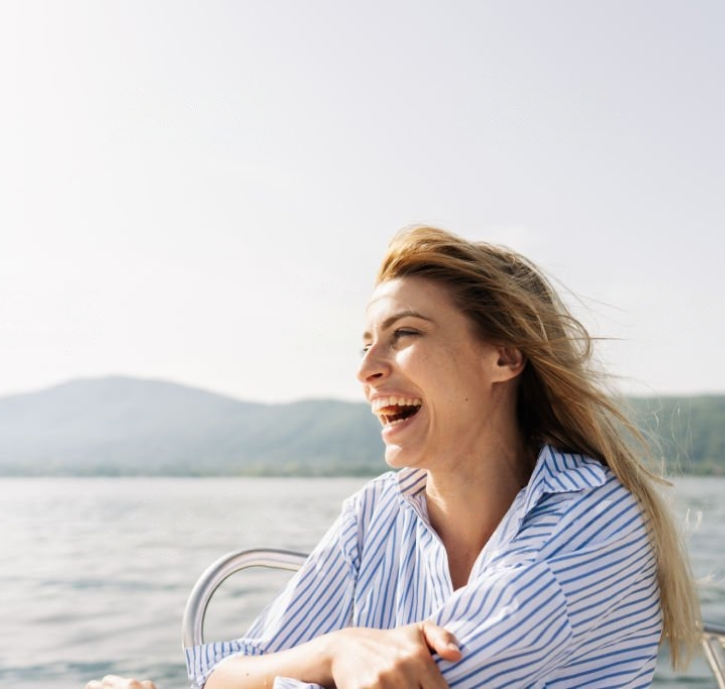
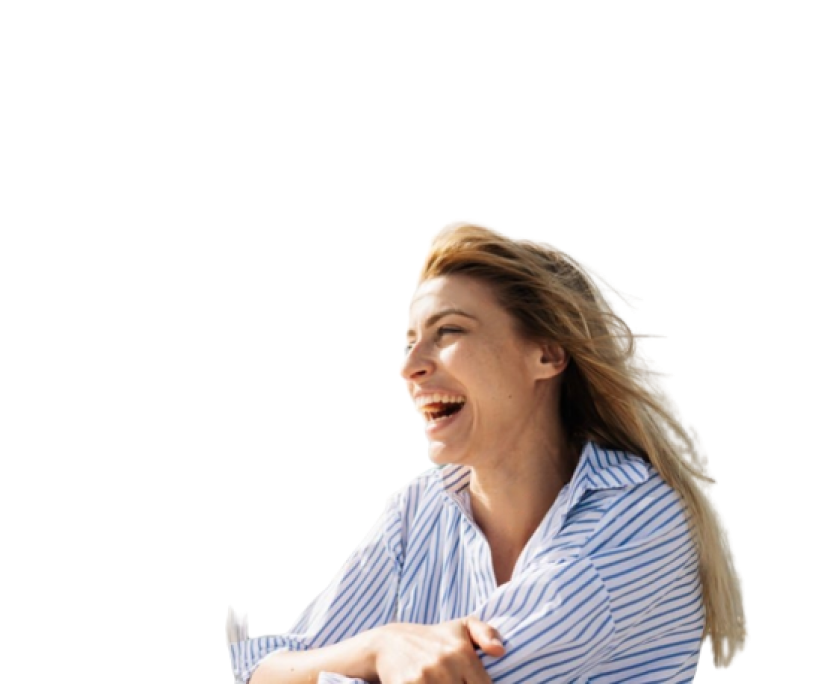
New changes to the project

diff --git a/src/pages/Header.jsx b/src/pages/Header.jsx
@@ -11,7 +11,7 @@ const MainHeaderSection = styled.div`
   // background-color: #f4f6fc;
   // padding: 10px 0px 0px 0px;
   position: absolute;
-  top: 6%;
+  top: -10%;
   //   padding: 0px 50px;
   z-index: -1;
 
@@ -19,7 +19,6 @@ const MainHeaderSection = styled.div`
     display: flex;
     justify-content: space-between;
     align-items: center;
-    width: 100%;
     // max-width: 1200px;
     // height: 100vh;
     // background-color: #f4f6fc;
@@ -28,56 +27,41 @@ const MainHeaderSection = styled.div`
     // z-index: 999;
 
     .Left {
-      display: flex;
-      flex-direction: column;
-      justify-content: center;
-      align-items: flex-start;
-      width: 50%;
-      //   height: 100vh;
-      // background-color: #f4f6fc;
-      // padding: 10px 0px 0px 0px;
-      position: relative;
+      display: block;
+    //   flex-direction: column;
+    //   justify-content: center;
+    //   align-items: flex-start;
+    //   position: relative;
       // z-index: 999;
+      width: 60%;
+      margin: 0 auto;
       padding-left: 50px;
-      padding-right: 50px;
-      h2 {
-        font-size: 24px;
-        font-family: "Poppins", sans-serif;
-        line-height: 28.8px
-        font-weight: 600;
-        color: #6D6D74;
-        margin-top: 40px;
-        margin-bottom: 20px;
-        padding-right: 50px;
-
-        span {
-            color: #19013b;
-            text-transform: uppercase;
-            font-family: "cursive";
-        }
-        }
+    //   padding-right: 50px;
 
       h1 {
-        font-size: 3rem;
+        font-size: 45px;
         font-weight: 600;
         color: #19013b;
-        margin-bottom: 50px;
+        padding-top: -11px;
+        margin-bottom: 20px;
+        line-height: 50px;
       }
       p {
-        font-size: 24px;
+        font-size: 20px;
         font-family: "Poppins", sans-serif;
         line-height: 28.8px
         font-weight: 600;
         color: #1f1e46;
-        margin-bottom: 10px;
+        // margin-bottom: 10px;
         padding-right: 50px;
+        padding-left: 8px;
       }
     }
     .Right {
       display: flex;
       justify-content: center;
-      align-items: center;
-      width: 50%;
+      align-items: start;
+      width: 40%;
       // height: 100vh;
       // background-color: #f4f6fc;
       // padding: 10px 0px 0px 0px;
@@ -85,12 +69,12 @@ const MainHeaderSection = styled.div`
       // z-index: 999;
 
       img {
-        width: 100%;
-        height: 589px;
-        // position: absolute;
-        // left: 767px;
-        // right: -25px;
-        top: cal(50% - 689px / 2 + 32.2px);
+        width: 713px;
+        height: 584px;
+        position: relative;
+        bottom: 10px;
+        right: 155px;
+        // top: cal(50% - 689px / 2 + 32.2px);
       }
     }
   }
@@ -101,14 +85,8 @@ const Header = () => {
     <MainHeaderSection>
       <div className="Container">
         <div className="Left">
-          <h2>
-            Welcome to <span>travilify</span>
-          </h2>
           <h1>Experience, Explore, Dream, and Uncover Hidden Travel Gems</h1>
-          <p>
-            Discover Amazing Flights, Hotels, Tours, <br /> Cars, and
-            Unforgettable Packages.
-          </p>
+          <p>Discover Amazing flights, book tours and visa</p>
         </div>
         <div className="Right">
           <Image src={headerImg} alt="" />

diff --git a/src/pages/SubHeader.jsx b/src/pages/SubHeader.jsx
@@ -5,9 +5,10 @@ import styled from "styled-components";
 import FlightCheck from "./FlightCheck";
 
 const SubHeaderSection = styled.div`
-  width: 97%;
-  box-shadow: 4px 14px 28px rgba(0, 0, 0, 0.1);
+  width: 92%;
+  box-shadow: -2px -1px 13px 0px rgb(0 0 0 / 30%);
   border-radius: 20px;
+  //   border: 0.4px solid #8b3eea;
   padding: 0px 30px;
   height: 265px;
   margin: 0 auto;
@@ -15,7 +16,7 @@ const SubHeaderSection = styled.div`
   margin-bottom: 20px;
   position: absolute;
   z-index: 9;
-  top: 108%;
+  top: 85%;
   transform: translate(-50%, -50%);
   left: 50%;
 `;
@@ -42,7 +43,7 @@ const TopSec = styled.div`
   align-items: center;
   width: 100%;
   margin-bottom: 20px;
-  padding: 10px 0px 0px 0px;
+  padding: 20px 0px 0px 0px;
   position: relative;
   // z-index: 999;
 `;

diff --git a/src/pages/FlightSecDatePicker.jsx b/src/pages/FlightSecDatePicker.jsx
@@ -1,0 +1,21 @@
+import styled from "styled-components";
+
+import { addDays } from "date-fns";
+import { useState } from "react";
+
+const [state, setState] = useState([
+  {
+    startDate: new Date(),
+    endDate: addDays(new Date(), 7),
+    key: "selection",
+  },
+]);
+
+<DateRangePicker
+  onChange={(item) => setState([item.selection])}
+  showSelectionPreview={true}
+  moveRangeOnFirstSelection={false}
+  months={2}
+  ranges={state}
+  direction="horizontal"
+/>;

diff --git a/src/styles/globals.css b/src/styles/globals.css
@@ -94,7 +94,7 @@ body {
       rgb(var(--background-end-rgb))
     )
     rgb(var(--background-start-rgb)); */
-    background: #F4F6FC;
+    background: #F4F6FC !important;
     /* padding: 0px 30px; */
     /* justify-content: center; */
 }
@@ -108,4 +108,13 @@ a {
   html {
     color-scheme: dark;
   }
+}
+
+
+/* DatePicker Styling Here */
+.rdrDefinedRangesWrapper{
+    display: none !important;
+}
+.rdrDateDisplay{
+    display: none !important;
 }

diff --git a/src/pages/_app.js b/src/pages/_app.js
@@ -2,6 +2,8 @@ import "@/styles/globals.css";
 import { createContext, useState } from "react";
 // import {BrowserRouter as Router, Routes, Route} from 'react-router-dom';
 // import {Home} from '@/pages/Home';
+import "react-date-range/dist/styles.css"; // main css file
+import "react-date-range/dist/theme/default.css"; // theme css file
 
 export const AppContext = createContext({});
 
